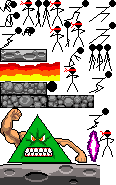
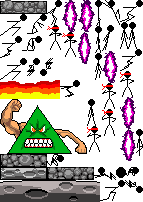
Fixed NaN problem in vectorMath, fixed skelmeth return value problem in skelcomp, HUGE overhaul to player.js, added graphics to atlas.

diff --git a/js/game/states/skeletons/player.js b/js/game/states/skeletons/player.js
@@ -3,6 +3,7 @@
     Standard player character for regular ol' platforming.
     Controls depend on direction of gravity.
     If there's no gravity, can move freely in any direction. */
+let DEBUG = false;
 define(['game/keyDown', 'game/states/fadeOut', 'util/functional',
     'util/vectorMath'],
 function (keyDown, fadeOut, F, VM) {return {
@@ -14,38 +15,46 @@ function (keyDown, fadeOut, F, VM) {return {
         this.player.animations.add('walk', [
             'guy-walk-1', 'guy-walk-2', 'guy-walk-3',
             'guy-walk-4', 'guy-walk-5', 'guy-walk-6'], 10, true);
-        this.player.animations.add('jump', ['guy-walk-5']);
-        this.player.animations.add('fall', ['guy-walk-3']);
-        this.player.anchor.setTo(0.5, 1); // Putting the anchor between the character's feet
-            // makes a lot of collision / movement / placement related stuff convenient
+        this.player.animations.add('jump', ['guy-jump-4', 'guy-jump-5', 'guy-jump-6', 'guy-jump-7', 'guy-jump-8'], 10);
+        this.player.animations.add('fall', ['guy-jump-9'], 10);
+        this.player.animations.add('run', ['guy-run-1', 'guy-run-2', 'guy-run-3', 'guy-run-4',
+            'guy-run-5', 'guy-run-6'], 10, true);
+        this.player.anchor.setTo(0.5, 0.5); // for rotation
         this.player.animations.play('fall');
         this.game.physics.arcade.enable(this.player); // we want physics for the character
-        this.player.body.bounce.y = 0; // this may vary
+        /*
+        this.player.body.bounce.x = -0.25;
+        this.player.body.bounce.y = -0.25; // this may vary
+        */
         this.player.body.gravity.y = 600; // this may also vary
         this.camera.follow(this.player); // camera should follow player
         this.playerStepTimer = 30; // 30 frames until next step noise
+        this.playerWalkStrength = 40;
+        this.playerJumpStrength = 220;
+        this.playerMinRunSpeed = 250;
+        this.playerFriction = 0.11;
+        this.reldirs = {}; // Recalculate once per update loop
+        this.relspeeds = {};
+        // Fix problem with rapidly switching animations
+        this.timeSinceOnGround = 1;
     },
-    update: function () {
+    playerPlayStepSounds: function () {
         // Play step noises
-        if (this.player.animations.name == 'walk') {
+        if (['walk', 'run'].includes(this.player.animations.name)) {
             this.playerStepTimer--;
             if (this.playerStepTimer <= 0) {
-                this.playerStepTimer = 30;
+                this.playerStepTimer = (this.player.animations.name == 'walk' ? 30 : 10);
                 let whichNoise = Math.floor(Math.random()*26) + 1;
                 this.game.audiosprite.play('step-' + whichNoise);
             }
         }
-        // Update collision box (TO DO: account for angle)
-        this.player.body.setSize(
-            this.player.width/this.player.scale.x,
-            this.player.height/this.player.scale.y
-        );
-        // If the tilemap skeleton (yet to be written) is loaded and it has a solid layer:
-        if (this.layers && this.layers.solid)
-            this.game.physics.arcade.collide(this.player, this.layers.solid); // then that layer is solid
+    },
+    playerCollideSolids: function () {
         // If any sprites / etc declare themselves solid by being in the 'solids' group:
         if (this.groups.solids)
-            this.game.physics.arcade.collide(this.player, this.groups.solids); // then they're also solid
+            this.game.physics.arcade.collide(this.player, this.groups.solids); // then treat them as solid
+    },
+    playerCollideHazards: function () {
         // If any sprites / etc declare themselves dangerous by being in the 'hazards' group:
         let STATE = this;
         if (this.groups.hazards)
@@ -56,89 +65,162 @@ function (keyDown, fadeOut, F, VM) {return {
                     STATE.game.audiosprite.stop();
                     F.curry(fadeOut, STATE.state.current).apply(null, STATE.initargs);
                 });
-        // Velocity achievable by relatively left or right conveyance is capped
-        // so we can't zoom off into nowhere
-        let terminalVelocity = 400;
-        if (this.player.body.gravity.x == 0 && this.player.body.gravity.y == 0) { // If there's no gravity:
-            this.player.angle = 0; // Then we should always be on our feet
-            let walkStrength = 100;
-            let anyKeyDown = false;
-            // and able to move in any direction we choose
-            for (let vec of [{x: 1, y: 0}, {x: -1, y: 0}, {x: 0, y: 1}, {x: 0, y: -1}])
-                if (keyDown(VM.direction(vec))) { // If we are choosing to move in a direction:
-                    anyKeyDown = true; // then record this fact
-                    this.player.body.velocity.x += vec.x*walkStrength; // and walk in that direction
-                    this.player.body.velocity.y += vec.y*walkStrength;
-                    this.player.animations.play('walk');
-                    if (this.player.body.velocity.x < 0) // If that direction is left-ish:
-                        this.player.scale.x = -Math.abs(this.player.scale.x); // face left
-                    else this.player.scale.x = Math.abs(this.player.scale.x); // Otherwise face right
-                }
-            if (this.player.animations.name == 'walk' && !anyKeyDown) { // If we didn't choose to move:
-                this.player.animations.play('idle'); // stand still
-            }
-            if (this.player.animations.name == 'idle') { // As long as we're standing still:
-                this.player.body.velocity.x /= 2; // try to smoothly bring us to a stop
-                this.player.body.velocity.y /= 2;
-            }
-        } else { // If there's gravity:
-            let walkStrength = 100;
-            let jumpStrength = 370;
-            this.player.angle = VM.angle(this.player.body.gravity) - 90; // Rotate sprite according to gravity
-            let relativeLeft = VM.normalize(VM.rotate(this.player.body.gravity, 90)); // Determine walking dirs
-            let relativeRight = VM.normalize(VM.rotate(this.player.body.gravity, -90));
-            let relativeUp = VM.normalize(VM.rotate(this.player.body.gravity, 180)); // Determine jumping dir
-            let eitherKeyDown = false; // Assume we're not trying to move in a walking dir
-            for (let vec of [relativeLeft, relativeRight]) if (keyDown(VM.direction(vec))) { // If we are:
-                eitherKeyDown = true; // Change that assumption
-                this.player.body.velocity.x += vec.x*walkStrength; // Move in the walking dir
-                this.player.body.velocity.y += vec.y*walkStrength;
-                if (this.player.animations.name == 'idle') // If moving from standing:
-                    this.player.animations.play('walk'); // Now we're walking
-            }
-            if (keyDown(VM.direction(relativeUp)) // If we're trying to jump
-                    && (['idle', 'walk'].includes(this.player.animations.name))) { // from standing or walking:
-                this.player.body.velocity.x += relativeUp.x*jumpStrength; // then we're allowed to jump
-                this.player.body.velocity.y += relativeUp.y*jumpStrength;
-                this.player.animations.play('jump');
-                this.game.audiosprite.play('jump');
-            }
-            if (['idle', 'walk'].includes(this.player.animations.name) // If we're standing or walking
-                    && !(this.player.body.blocked[VM.direction(this.player.body.gravity)]
-                         || this.player.body.touching[VM.direction(this.player.body.gravity)])) {
-                            // but not on anything
-                this.player.animations.play('fall'); // then we should fall
-            }
-            if (VM.angle(VM.project(this.player.body.velocity, relativeRight)) != 0)
-                    // If we're going "backward"-ish (left when gravity is downward)
-                this.player.scale.x = -Math.abs(this.player.scale.x); // face backward
-            else this.player.scale.x = Math.abs(this.player.scale.x); // otherwise face forward (usually right)
-            if (this.player.animations.name == 'jump' // If we're jumping
-                    && VM.scalarProject(this.player.body.velocity, this.player.body.gravity) > 0)
-                        // but headed downward
-                this.player.animations.play('fall'); // then we're actually falling
-            if (['fall', 'jump'].includes(this.player.animations.name) // If we're falling
-                    && (this.player.body.blocked[VM.direction(this.player.body.gravity)]
-                        || this.player.body.touching[VM.direction(this.player.body.gravity)])
-                    && VM.scalarProject(this.player.body.velocity, this.player.body.gravity) > 0) {
-                            // but just landed
-                this.player.animations.play('walk'); // then we're walking (and possibly about to stand still)
-                // play appropriate landing sound
-                if (VM.magnitude(VM.project(this.player.body.velocity, this.player.body.gravity)) > 50)
-                    this.game.audiosprite.play('hard-land'); // hard landing
-                else this.game.audiosprite.play('land'); // soft landing
-            }
-            if (this.player.animations.name == 'walk' && !eitherKeyDown) // If we're walking,
-                    // but no longer pressing a key to walk:
-                this.player.animations.play('idle'); // then we're actually standing
-            // Calculate the vector difference between our velocity
-            // and 20% of our projected velocity along the walking axis
-            let v = VM.subtract(this.player.body.velocity,
-                        VM.scale(VM.project(this.player.body.velocity, relativeRight), 0.2));
-            // Now that's our new velocity (this slows us down along the walking axis, a la friction)
-            this.player.body.velocity.x = v.x;
-            this.player.body.velocity.y = v.y;
+    },
+    playerRecalculateReldirs: function () {
+        // Get walking, jumping, and falling directions based on gravity
+        this.reldirs = {
+            left: VM.normalize(VM.rotate(this.player.body.gravity, 90)),
+            right: VM.normalize(VM.rotate(this.player.body.gravity, -90)),
+            up: VM.normalize(VM.rotate(this.player.body.gravity, 180)),
+            down: VM.normalize(this.player.body.gravity)
+        };
+        for (let d in this.reldirs)
+            this.relspeeds[d] =
+                VM.scalarProject(this.player.body.velocity, this.reldirs[d]);
+    },
+    playerStanding: function () {
+        return ['idle', 'walk', 'run'].includes(this.player.animations.name);
+    },
+    playerOnGround: function () {
+        let m = (this.player.body.blocked[VM.direction(this.reldirs.down)] ||
+                 this.player.body.touching[VM.direction(this.reldirs.down)]) &&
+                     this.relspeeds.up < 0.2;
+        if (m) this.timeSinceOnGround = 0;
+        else this.timeSinceOnGround++;
+        return this.timeSinceOnGround < 5 && this.player.animations.name != 'jump';
+    },
+    playerDoJump: function () {
+        this.player.body.velocity.x += this.reldirs.up.x*this.playerJumpStrength;
+        this.player.body.velocity.y += this.reldirs.up.y*this.playerJumpStrength;
+        this.player.animations.play('jump');
+        this.game.audiosprite.play('jump');
+    },
+    playerDoWalk: function (vec) {
+        this.player.body.velocity.x += vec.x*this.playerWalkStrength;
+        this.player.body.velocity.y += vec.y*this.playerWalkStrength;
+        if (this.player.animations.name == 'idle') this.player.animations.play('walk');
+    },
+    playerDoCheckRun: function () {
+        let walkspd = Math.abs(VM.magnitude(this.player.body.velocity)*this.relspeeds.right);
+        if (this.player.animations.name == 'walk' && walkspd > this.playerMinRunSpeed)
+            this.player.animations.play('run');
+        else if (this.player.animations.name == 'run' && walkspd < this.playerMinRunSpeed)
+            this.player.animations.play('walk');
+    },
+    playerDoFallFromLedges: function () {
+        if (this.playerStanding() // If we're standing or walking
+                && !this.playerOnGround()) { // but not on anything
+            this.player.animations.play('fall'); // then we should fall
+            if (DEBUG) console.log('fall off ledge');
         }
+    },
+    playerRespondWalk: function () {
+        let tryingToWalk = false;
+        for (let vec of [this.reldirs.left, this.reldirs.right]) if (keyDown(VM.direction(vec))) { // If we are:
+            tryingToWalk = !tryingToWalk; // Record it (this will be important later)
+            this.playerDoWalk(vec); // do it
+        }
+        return tryingToWalk;
+    },
+    playerRespondJump: function () {
+        if (keyDown(VM.direction(this.reldirs.up)) // If we're trying to jump
+                && this.playerOnGround()) { // from standing or walking:
+            this.playerDoJump(); // then we can
+            return true;
+        }
+        return false;
+    },
+    playerRotateByGravity: function () {
+        this.player.angle = VM.angle(this.player.body.gravity) - 90; // Rotate sprite according to gravity
+    },
+    playerFaceLeft: function () {
+        this.player.scale.x = -Math.abs(this.player.scale.x);
+    },
+    playerFaceRight: function () {
+        this.player.scale.x = Math.abs(this.player.scale.x);
+    },
+    playerDoUpdatePlatformerFacing: function () {
+        if (this.relspeeds.left > 0) this.playerFaceLeft();
+        else this.playerFaceRight();
+    },
+    playerDoFallFromJumping: function () {
+        if (this.player.animations.name == 'jump' // If we're jumping
+                && this.relspeeds.down > 0) { // but headed downward
+            this.player.animations.play('fall'); //  then we're actually falling
+            if (DEBUG) console.log('fall from jump');
+        }
+    },
+    playerPlayLandingSound: function () {
+        let hardness = this.relspeeds.down*VM.magnitude(this.player.body.velocity);
+        if (hardness > 600)
+            this.game.audiosprite.play('hard-land');
+        else if (hardness > 150) this.game.audiosprite.play('land');
+        // avoid thok-thok-thok glitch by not making a sound at all if we landed really lightly
+    },
+    playerDoLandFromFall: function () {
+        if (['fall', 'jump'].includes(this.player.animations.name) // If we're falling
+                && this.playerOnGround()) { // but just landed
+            this.player.animations.play('walk'); // then we're walking (and possibly about to stand still)
+            this.playerPlayLandingSound();
+        }
+    },
+    playerDoStandStillFromWalk: function () {
+        if (this.player.animations.name == 'walk')
+            this.player.animations.play('idle');
+    },
+    playerDoApplyFriction: function () {
+        // Calculate the vector difference between our velocity
+        // and (friction)% of our projected velocity along the walking axis
+        let v = VM.subtract(this.player.body.velocity,
+            VM.scale(VM.project(this.player.body.velocity, this.reldirs.right), this.playerFriction));
+        // Now that's our new velocity (this slows us down along the walking axis, a la friction)
+        this.player.body.velocity.x = v.x;
+        this.player.body.velocity.y = v.y;
+    },
+    playerDoPlatformerPhysics: function () {
+        this.playerPlayStepSounds();
+        this.playerRotateByGravity();
+        let tryingToWalk = this.playerRespondWalk();
+        this.playerRespondJump();
+        this.playerDoFallFromLedges();
+        this.playerDoUpdatePlatformerFacing();
+        this.playerDoFallFromJumping();
+        this.playerDoLandFromFall();
+        if (!tryingToWalk) this.playerDoStandStillFromWalk();
+        this.playerDoApplyFriction();
+        this.playerDoCheckRun();
+    },
+    playerDoTopDownPhysics: function () {
+        this.player.angle = 0; // In the absence of gravity, we should always be on our feet
+        let anyKeyDown = false;
+        // and able to move in any direction we choose
+        for (let vec of [{x: 1, y: 0}, {x: -1, y: 0}, {x: 0, y: 1}, {x: 0, y: -1}]) {
+            if (keyDown(VM.direction(vec))) { // If we are choosing to move in a direction:
+                anyKeyDown = true; // then record this fact
+                this.playerDoWalk(vec); // walk that way
+                if (this.player.body.velocity.x < 0) // If that direction is left-ish:
+                    this.player.scale.x = -Math.abs(this.player.scale.x); // face left
+                else this.player.scale.x = Math.abs(this.player.scale.x); // Otherwise face right
+            }
+        }
+        if (this.player.animations.name == 'walk' && !anyKeyDown) // If we didn't choose to move:
+            this.player.animations.play('idle'); // stand still
+        if (this.player.animations.name == 'idle') { // As long as we're standing still:
+            this.player.body.velocity.x /= 2; // try to smoothly bring us to a stop
+            this.player.body.velocity.y /= 2;
+        } else { // Apply friction regardless
+            this.player.body.velocity.x *= 0.8;
+            this.player.body.velocity.y *= 0.8;
+        }
+    },
+    update: function () {
+        this.playerRecalculateReldirs();
+        if (DEBUG) console.log(VM.magnitude(this.player.body.velocity));
+        this.playerCollideSolids();
+        this.playerCollideHazards();
+        if (VM.magnitude(this.player.body.gravity) < 0.01)
+            this.playerDoTopDownPhysics();
+        else this.playerDoPlatformerPhysics();
     }
 };});
 

diff --git a/js/game/states/skelcomp.js b/js/game/states/skelcomp.js
@@ -6,7 +6,7 @@ define(['game/game', 'util/functional'], function (game, F) {
             let retval = [];
             for (let skel of this.skels) if (skel[k]) { // For each skeleton that supports the method:
                 let r = skel[k].apply(this, args); // Call it
-                if (r) retval[retval.length] = r; // Add it to return value if it returned anything
+                if (r != undefined) retval[retval.length] = r; // Add it to return value if it returned anything
             }
             switch (retval.length) {
                 case 0: return undefined; // Return nothing if nothing returned anything
@@ -26,7 +26,7 @@ define(['game/game', 'util/functional'], function (game, F) {
             // Put them all on the compositor.
             for (let k in skelMeths) if (!this[k])
                 this[k] = function () {
-                    self.eachSkel(k, arguments);
+                    return self.eachSkel(k, arguments);
                 };
         },
         init: function () {

diff --git a/js/util/vectorMath.js b/js/util/vectorMath.js
@@ -54,7 +54,9 @@ let VM = {
         // Treats the second vector as an axis,
         // and returns the first vector's component along that axis
         // AS A SCALAR.
-        return VM.dot(v, u)*1.0/(VM.magnitude(v)*VM.magnitude(u));
+        let d = VM.dot(v, u)*1.0/(VM.magnitude(v)*VM.magnitude(u));
+        if (isNaN(d)) return 0;
+        return d;
     },
     direction: function (v) {
         // direction: Decides which of the four keyboard directions
